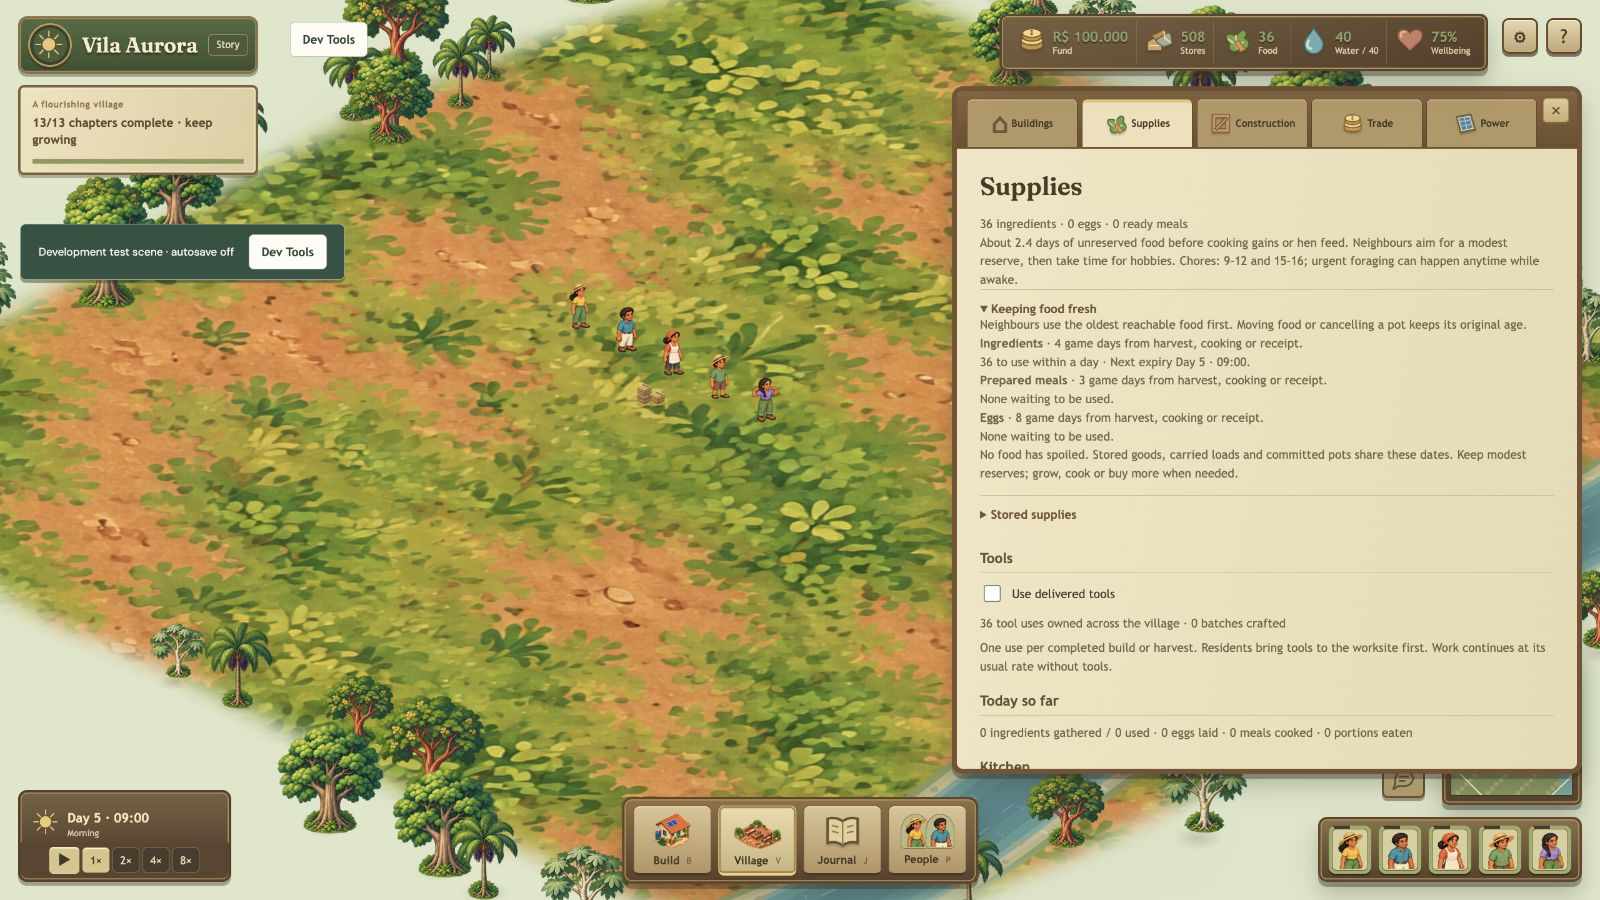
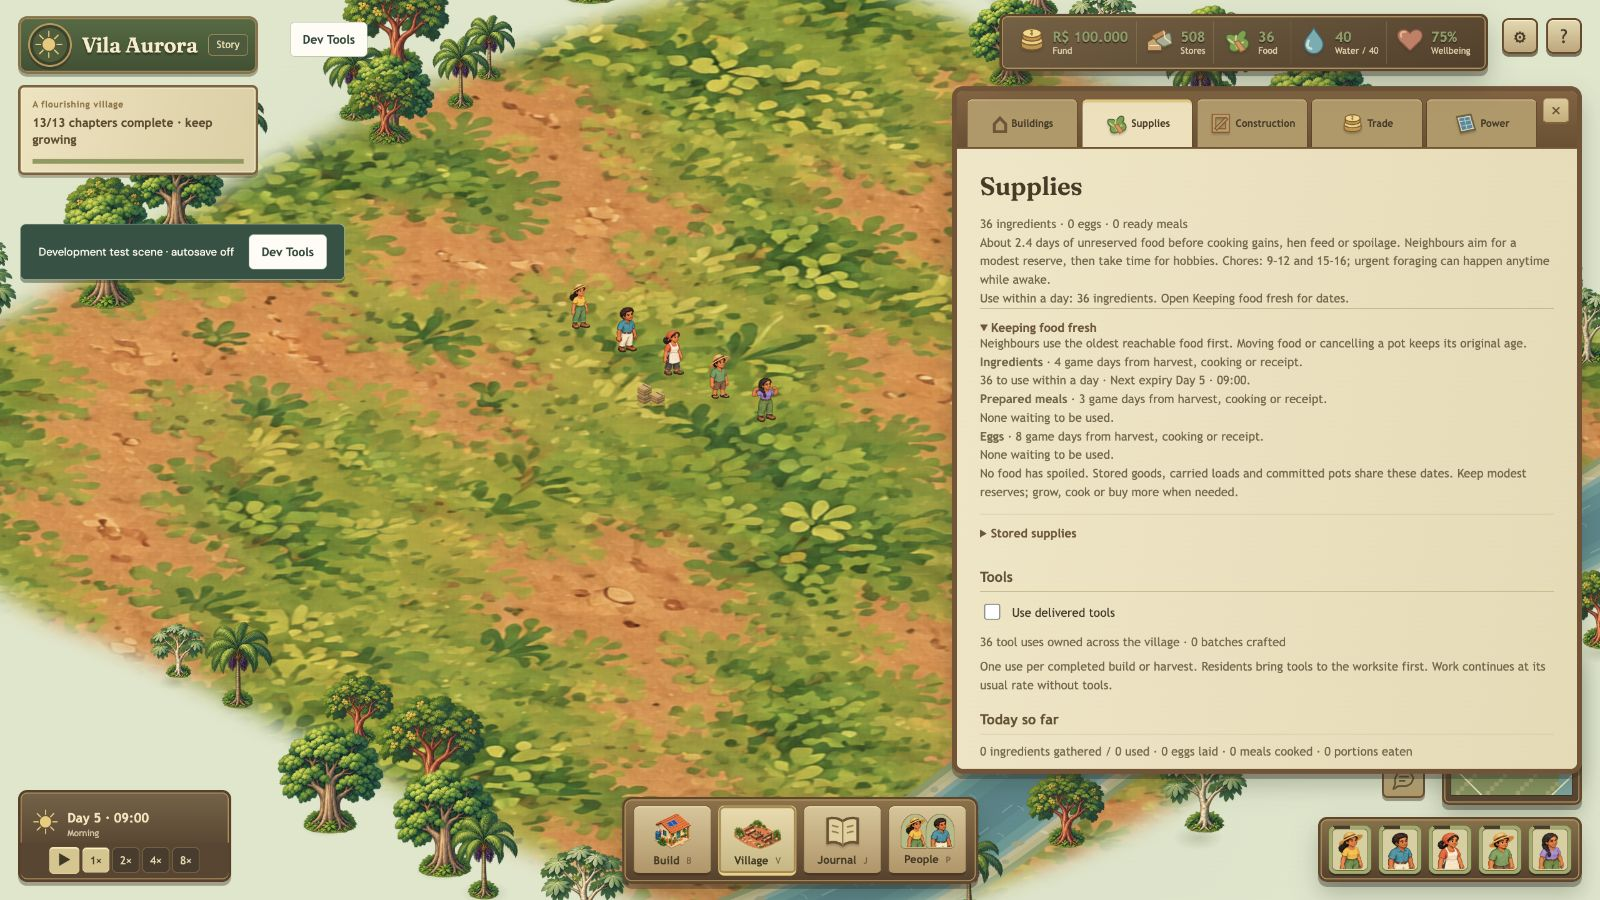
Keep food expiry warnings visible and protect shared meals

Changed region(s): [[0.5938, 0.2489, 0.9688, 0.84]]

diff --git a/web/main.js b/web/main.js
@@ -1134,7 +1134,7 @@ function updateSupplies(v) {
   const sharedReserve=shared&&['preparing','ready','serving'].includes(shared.phase)&&shared.spent_after==null?Math.min(5,v.meals):0;
   const days = (v.food + v.meals-sharedReserve) / 15;
   $("#pantry-stock").textContent = `${Math.floor(v.food)} ingredients · ${s.eggs} eggs · ${v.meals} ready meals`;
-  $("#pantry-outlook").textContent = v.mode==='sandbox' ? "Sandbox replenishes ingredients, water and meals. Neighbours keep their daily routines and have time for hobbies." : `${days < 1 ? "Time to top up the pantry. " : ""}About ${days.toFixed(1)} days of unreserved food before cooking gains or hen feed. Neighbours aim for a modest reserve, then take time for hobbies. Chores: 9–12 and 15–16; urgent foraging can happen anytime while awake.`;
+  $("#pantry-outlook").textContent = v.mode==='sandbox' ? "Sandbox replenishes ingredients, water and meals. Neighbours keep their daily routines and have time for hobbies." : `${days < 1 ? "Time to top up the pantry. " : ""}About ${days.toFixed(1)} days of unreserved food before cooking gains, hen feed or spoilage. Neighbours aim for a modest reserve, then take time for hobbies. Chores: 9–12 and 15–16; urgent foraging can happen anytime while awake.`;
   $("#pantry-flow").textContent = `${Math.floor(s.gathered)} ingredients gathered / ${Math.floor(s.used)} used · ${s.eggs_laid} eggs laid · ${s.meals_cooked} meals cooked · ${s.portions_eaten} portions eaten`;
   $("#use-eggs").checked = s.use_eggs;
   $("#feed-hens").checked = s.feed_hens;

diff --git a/web/economy-ui.js b/web/economy-ui.js
@@ -1,4 +1,4 @@
-import {freshnessMarkup,expiryNote} from './freshness-ui.js';
+import {freshnessMarkup,freshnessWarning,expiryNote} from './freshness-ui.js';
 import {itemIcon,materialIcons} from './game-ui.js';
 import {createProjectForecasts} from './forecasts.js';
 import {installProductionUI,productionSiteName} from './production-ui.js';
@@ -125,7 +125,7 @@ export function installEconomyUI({snapshot,game,changed,notify,locate,openTown,p
     $('#project-forecast-assumptions').textContent=outlook.assumptions;
     $('#property-description').textContent=e.property;
     productionUI.update(s);
-    const freshnessKey=JSON.stringify(e.freshness);if(freshnessKey!==lastFreshness){lastFreshness=freshnessKey;$('#food-freshness').innerHTML=freshnessMarkup(s);}
+    const freshnessKey=JSON.stringify(e.freshness);if(freshnessKey!==lastFreshness){lastFreshness=freshnessKey;$('#food-freshness').innerHTML=freshnessMarkup(s);const warning=freshnessWarning(s);$('#food-freshness-warning').textContent=warning;$('#food-freshness-warning').hidden=!warning;}
     const locations=v.logistics?.stores||[],shipments=v.logistics?.shipments||[],locationKey=JSON.stringify({locations,shipments:shipments.map(h=>[h.resident,h.material,h.amount,h.carrying])});
     if(locationKey!==lastLocations&&!$('#storage-locations').contains(document.activeElement)){
       lastLocations=locationKey;

diff --git a/web/index.html b/web/index.html
@@ -97,6 +97,7 @@
         <h2>Supplies</h2>
         <p id="pantry-stock"></p>
         <p id="pantry-outlook" role="status"></p>
+        <p id="food-freshness-warning" role="status" hidden></p>
         <details class="economy-section"><summary>Keeping food fresh</summary><div id="food-freshness"></div></details>
         <details class="economy-section" id="materials-stores"><summary>Stored supplies</summary><p id="storage-summary"></p><div id="material-inventory"></div><div id="storage-locations"></div></details>
         <section id="tools-control" hidden><h3>Tools</h3><label><input id="use-tools" type="checkbox" /> Use delivered tools</label><p id="tools-stock"></p><p>One use per completed build or harvest. Residents bring tools to the worksite first. Work continues at its usual rate without tools.</p></section><h3>Today so far</h3>

diff --git a/web/freshness-ui.js b/web/freshness-ui.js
@@ -4,6 +4,11 @@ export function expiryNote(lots,enabled){
   if(!enabled||!lots?.length)return '';
   return `Next food expires ${time(Math.min(...lots.map(l=>l.expires)))}`;
 }
+export function freshnessWarning(s){
+  const f=s.environment.economy.freshness;if(!f?.enabled)return '';
+  const due=f.due_within_day.map((n,i)=>n?`${n} ${s.environment.economy.materials[i].name.toLowerCase()}`:'').filter(Boolean);
+  return due.length?`Use within a day: ${due.join(' · ')}. Open Keeping food fresh for dates.`:'';
+}
 export function freshnessMarkup(s){
   const f=s.environment.economy.freshness;if(!f)return '';
   if(!f.enabled)return '<p>Food does not spoil in Sandbox. Neighbours still use older portions first.</p>';

diff --git a/src/freshness_tests.rs b/src/freshness_tests.rs
@@ -358,3 +358,49 @@ fn invalid_food_dates_amounts_and_summary_edits_are_rejected_atomically() {
         assert_eq!(g.snapshot(), before);
     }
 }
+
+#[test]
+fn gathered_neighbours_cannot_serve_expired_portions_or_receive_shared_meal_rewards() {
+    let mut g = empty();
+    {
+        let mut v = g.app.world_mut().resource_mut::<Village>();
+        v.minutes = 6300.;
+        assert!(logistics::receive(&mut v, Owner::Camp, MEALS, 5));
+    }
+    assert_eq!(g.place("square", 6, 6), "ok");
+    logistics::fixture_finish(&mut g.app.world_mut().resource_mut::<Village>(), 0);
+    assert_eq!(g.host_gathering(), "ok");
+    {
+        let mut v = g.app.world_mut().resource_mut::<Village>();
+        gatherings::fixture_table(&mut v);
+        let table = v.progress.gathering_delivery.as_ref().unwrap().store;
+        let lot = &mut v
+            .logistics
+            .as_mut()
+            .unwrap()
+            .stores
+            .iter_mut()
+            .find(|p| p.id == table)
+            .unwrap()
+            .food_lots[0];
+        lot.produced = 1980.5;
+        lot.expires = 6300.5;
+        assert!(gatherings::advance(&mut v, 31));
+        v.minutes = 6300.75;
+        advance(&mut v);
+        v.progress.attended = 0b00111;
+        gatherings::advance(&mut v, 31);
+        assert!(!gatherings::served(&v));
+        assert_eq!(v.meals, 0);
+        assert_eq!(v.supplies.portions_eaten, 0);
+        assert_eq!(v.freshness.expired[MEALS], 5);
+        gatherings::finish(&mut v, false);
+        let p = v.progress.gathering_delivery.as_ref().unwrap();
+        assert_eq!(p.phase, gatherings::Phase::Failed);
+        assert_eq!(p.attended.count_ones(), 3);
+        assert_eq!(v.progress.gatherings, 0);
+        assert!(v.progress.friendships.iter().all(|n| *n == 0));
+        conserved(&v);
+    }
+    checkpoint(&mut g);
+}
